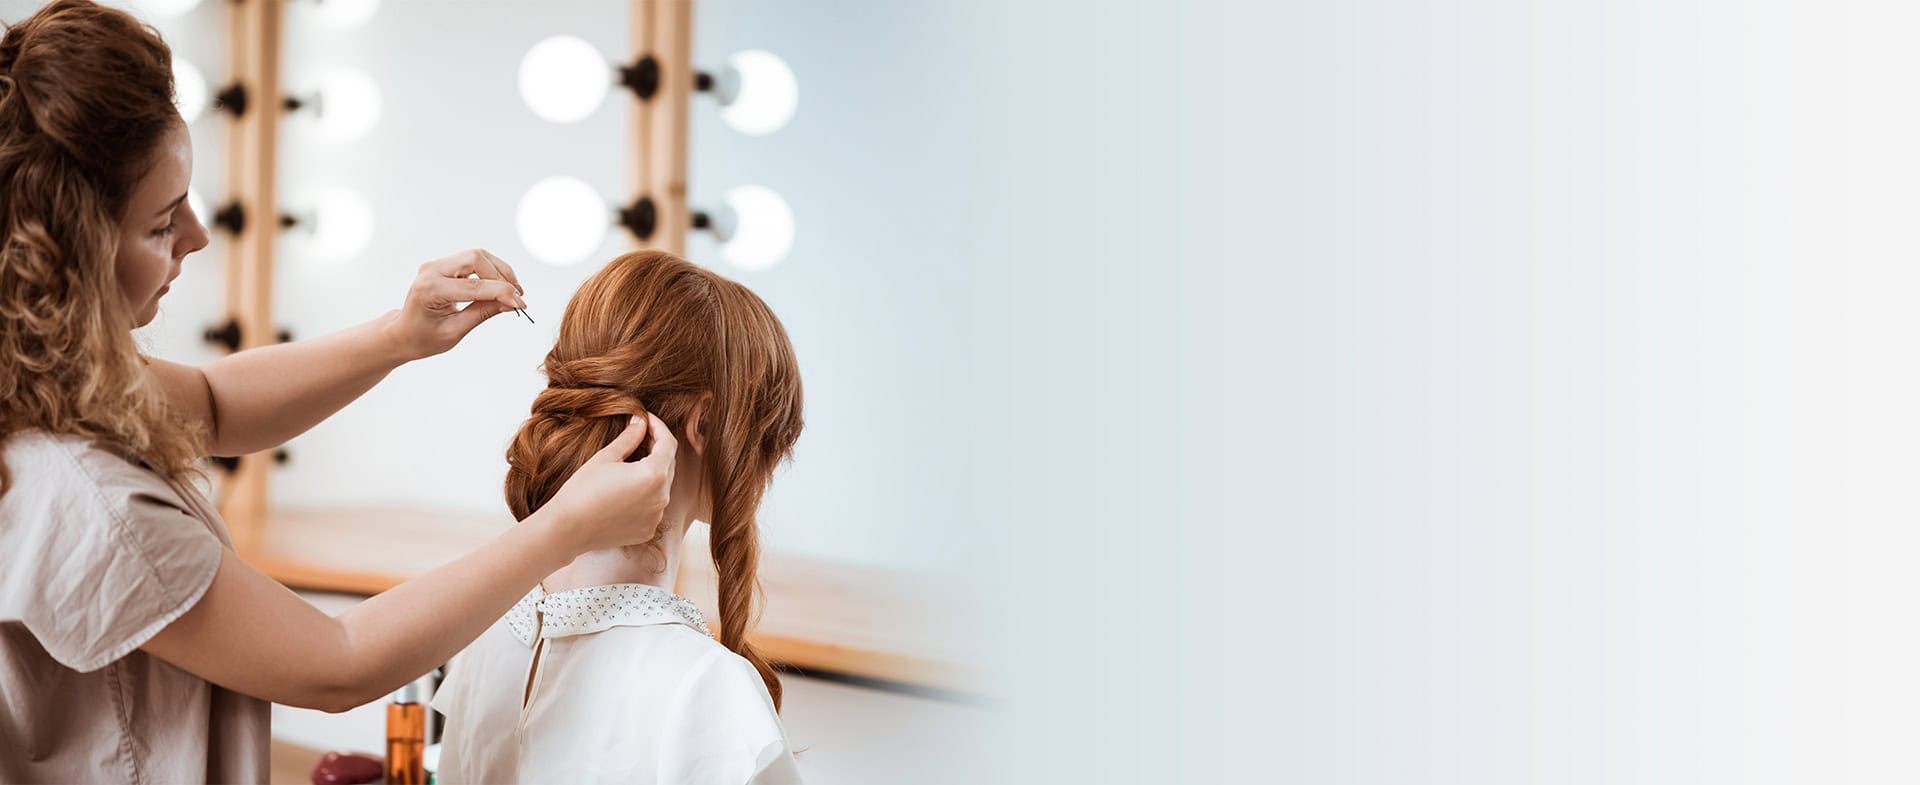
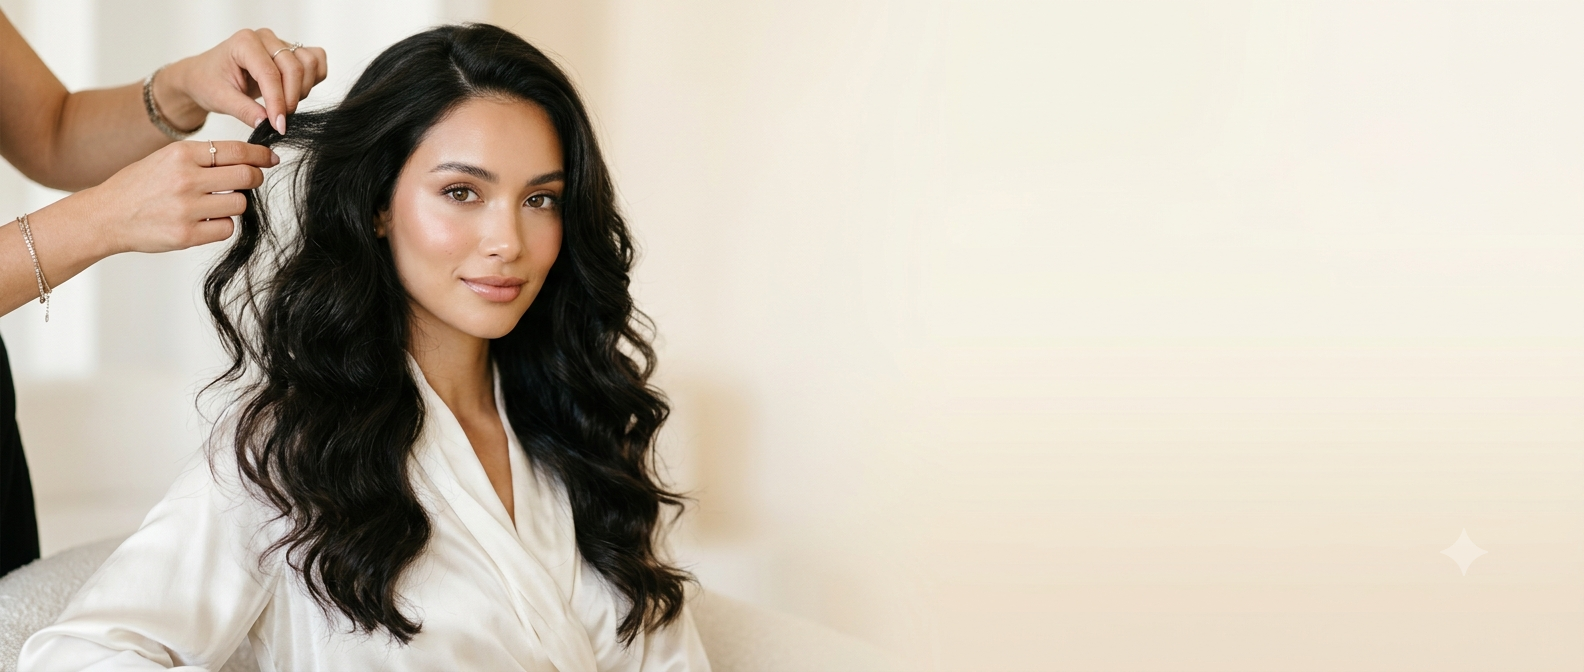
feat: replace all category images with real clinic photos and update hero headline
- Added local images for all 9 categories across Home, CategorySelectionPage, and ServiceCategoryPage
- Removed leftover Unsplash placeholder slides from carousel
- Updated hero headline to 'הפכי לגרסה שחלמת עליה'
- Updated AI slide badge text to 'שאלי את ה־AI'
- Removed gradient overlays blocking hero images

diff --git a/src/pages/Home.jsx b/src/pages/Home.jsx
@@ -2,18 +2,27 @@ import React, { useState, useEffect } from 'react';
 import { useNavigate } from 'react-router-dom';
 import { motion, AnimatePresence } from 'framer-motion';
 import { Sparkles, ArrowLeft, Star } from 'lucide-react';
+import makeupSlide from '../assets/makeup-professional.png';
+import manicureSlide from '../assets/slide1.jpg';
+import hairSlide from '../assets/slide2.jpg';
+import cosmoSlide from '../assets/Como.jpg';
+import eyebrowsSlide from '../assets/eyebrows.png';
+import hairRemovalSlide from '../assets/hair-removal.png';
+import bodySlide from '../assets/body-treatments.png';
+import aestheticSlide from '../assets/aesth.png';
+import personalStylingSlide from '../assets/personal_styling.png';
 
 /* ─── Treatment categories shown in the home grid ──────────────── */
 const CATEGORIES = [
-  { slug: 'manicure-pedicure',      name: 'מניקור ופדיקור',         type: 'image', img: 'photo-1596755389378-c31d21fd1273' },
-  { slug: 'hair-design',            name: 'עיצוב שיער',             type: 'solid', bg: '#4A9BA8',  text: '#fff' },
-  { slug: 'cosmetology',            name: 'טיפולי קוסמטיקה',        type: 'image', img: 'photo-1570172619644-dfd03ed5d881' },
-  { slug: 'body-treatments',        name: 'טיפולי גוף',             type: 'solid', bg: '#F5DDD0',  text: '#3D2B1F' },
-  { slug: 'hair-removal',           name: 'הסרת שיעור',             type: 'image', img: 'photo-1552693673-1bf958298935' },
-  { slug: 'professional-makeup',    name: 'איפור מקצועי',           type: 'solid', bg: '#E8825A',  text: '#fff' },
-  { slug: 'permanent-makeup-brows', name: 'איפור קבוע ועיצוב גבות', type: 'image', img: 'photo-1616394584738-fc6e612e71b9' },
-  { slug: 'personal-styling',       name: 'סטיילינג אישי',          type: 'solid', bg: '#EDB89A',  text: '#3D2B1F' },
-  { slug: 'aesthetic-treatments',   name: 'טיפולי אסתטיקה',         type: 'image', img: 'photo-1487412720507-e7ab37603c6f' },
+  { slug: 'manicure-pedicure',      name: 'מניקור ופדיקור',         type: 'image', img: manicureSlide },
+  { slug: 'hair-design',            name: 'עיצוב שיער',             type: 'image', img: hairSlide  },
+  { slug: 'cosmetology',            name: 'טיפולי קוסמטיקה',        type: 'image', img: cosmoSlide },
+  { slug: 'body-treatments',        name: 'טיפולי גוף',             type: 'image', img: bodySlide },
+  { slug: 'hair-removal',           name: 'הסרת שיעור',             type: 'image', img: hairRemovalSlide },
+  { slug: 'professional-makeup',    name: 'איפור מקצועי',           type: 'image', img: makeupSlide },
+  { slug: 'permanent-makeup-brows', name: 'איפור קבוע ועיצוב גבות', type: 'image', img: eyebrowsSlide },
+  { slug: 'personal-styling',       name: 'סטיילינג אישי',          type: 'image', img: personalStylingSlide },
+  { slug: 'aesthetic-treatments',   name: 'טיפולי אסתטיקה',         type: 'image', img: aestheticSlide },
 ];
 
 /* ─── Scan Box ─────────────────────────────────────────────────── */
@@ -298,9 +307,15 @@ export default function Home() {
   /* carousel */
   const slides = [
     { src: 'https://images.unsplash.com/photo-1531746020798-e6953c6e8e04?auto=format&fit=crop&w=900&q=90', alt: 'ניתוח עור AI',       type: 'scan' },
-    { src: 'https://images.unsplash.com/photo-1570172619644-dfd03ed5d881?auto=format&fit=crop&w=900&q=90', alt: 'טיפול פנים',         type: 'label', badge: 'טיפול פנים מקצועי' },
-    { src: 'https://images.unsplash.com/photo-1616394584738-fc6e612e71b9?auto=format&fit=crop&w=900&q=90', alt: 'עיצוב גבות',         type: 'label', badge: 'עיצוב גבות ועיניים' },
-    { src: 'https://images.unsplash.com/photo-1544161515-4ab6ce6db874?auto=format&fit=crop&w=900&q=90',   alt: 'חוויית ספא',         type: 'label', badge: 'חוויית ספא מפנקת'   },
+    { src: makeupSlide,                                                                                      alt: 'איפור מקצועי',       type: 'label', badge: 'איפור מקצועי'      },
+    { src: manicureSlide,                                                                                    alt: 'מניקור ופדיקור',     type: 'label', badge: 'מניקור ופדיקור'    },
+    { src: hairSlide,                                                                                        alt: 'עיצוב שיער',         type: 'label', badge: 'עיצוב שיער'        },
+    { src: cosmoSlide,                                                                                       alt: 'טיפולי קוסמטיקה',    type: 'label', badge: 'טיפולי קוסמטיקה'   },
+    { src: eyebrowsSlide,                                                                                    alt: 'איפור קבוע ועיצוב גבות', type: 'label', badge: 'איפור קבוע ועיצוב גבות' },
+    { src: bodySlide,                                                                                        alt: 'טיפולי גוף',         type: 'label', badge: 'טיפולי גוף'        },
+    { src: hairRemovalSlide,                                                                                 alt: 'הסרת שיעור',         type: 'label', badge: 'הסרת שיעור'        },
+    { src: aestheticSlide,                                                                                   alt: 'טיפולי אסתטיקה',     type: 'label', badge: 'טיפולי אסתטיקה'    },
+    { src: personalStylingSlide,                                                                             alt: 'סטיילינג אישי',       type: 'label', badge: 'סטיילינג אישי'      },
   ];
   const [currentSlide, setCurrentSlide] = useState(0);
   useEffect(() => {
@@ -327,7 +342,7 @@ export default function Home() {
             key={currentSlide}
             src={slides[currentSlide].src}
             alt={slides[currentSlide].alt}
-            className="absolute inset-0 w-full h-full object-cover object-top"
+            className="absolute inset-0 w-full h-full object-cover object-center"
             initial={{ opacity: 0, scale: 1.04 }}
             animate={{ opacity: 1, scale: 1 }}
             exit={{ opacity: 0 }}
@@ -335,21 +350,7 @@ export default function Home() {
           />
         </AnimatePresence>
 
-        {/* ── Gradient: let the image breathe — fade starts later, never goes fully opaque ── */}
-        <div
-          className="absolute inset-0 pointer-events-none"
-          style={{
-            background: 'linear-gradient(to right, transparent 0%, rgba(250,247,242,0.15) 38%, rgba(250,247,242,0.60) 58%, rgba(250,247,242,0.82) 100%)',
-          }}
-        />
-        {/* text-area backdrop: only in the rightmost 45% — gives just enough contrast for dark text */}
-        <div
-          className="absolute inset-y-0 right-0 pointer-events-none"
-          style={{
-            width: '45%',
-            background: 'linear-gradient(to right, transparent 0%, rgba(250,247,242,0.22) 100%)',
-          }}
-        />
+        {/* ── Gradient: subtle bottom fade only ── */}
         {/* bottom fade */}
         <div className="absolute inset-0 bg-gradient-to-t from-[#FAF7F2]/40 via-transparent to-transparent pointer-events-none" />
 
@@ -408,7 +409,7 @@ export default function Home() {
                       textShadow: '0 2px 20px rgba(250,247,242,0.70)',
                     }}
                   >
-                    העור שלך
+                    הפכי לגרסה
                   </motion.h1>
                   <motion.h1
                     variants={word}
@@ -422,7 +423,7 @@ export default function Home() {
                       filter: 'drop-shadow(0 2px 12px rgba(250,247,242,0.60))',
                     }}
                   >
-                    בידיים מקצועיות
+                    שחלמת עליה
                   </motion.h1>
                 </motion.div>
 
@@ -494,9 +495,9 @@ export default function Home() {
                     animate={{ opacity: [1, 0.3, 1] }}
                     transition={{ repeat: Infinity, duration: 1.4 }}
                   />
-                  <span className="text-xs font-bold text-gray-700" dir="rtl">AI סורק</span>
+                  <span className="text-xs font-bold text-gray-700" dir="rtl">שאלי את ה־AI</span>
                   <span className="text-gray-300 text-xs">|</span>
-                  <span className="text-xs text-gray-400" dir="rtl">4 אזורים זוהו</span>
+                  <span className="text-xs text-gray-400" dir="rtl">ייעוץ אישי חינם</span>
                 </>
               ) : (
                 <>
@@ -686,7 +687,7 @@ export default function Home() {
               {cat.type === 'image' ? (
                 <>
                   <img
-                    src={`https://images.unsplash.com/${cat.img}?auto=format&fit=crop&w=450&q=80`}
+                    src={cat.img?.startsWith('photo-') ? `https://images.unsplash.com/${cat.img}?auto=format&fit=crop&w=450&q=80` : cat.img}
                     alt={cat.name}
                     className="absolute inset-0 w-full h-full object-cover transition-transform duration-700 group-hover:scale-110"
                   />

diff --git a/src/pages/CategorySelectionPage.jsx b/src/pages/CategorySelectionPage.jsx
@@ -2,18 +2,27 @@ import React from "react";
 import { useNavigate } from "react-router-dom";
 import { motion } from "framer-motion";
 import { serviceCatalog } from "../data/serviceCatalog";
+import makeupSlide from "../assets/makeup-professional.png";
+import manicureSlide from "../assets/slide1.jpg";
+import hairSlide from "../assets/slide2.jpg";
+import cosmoSlide from "../assets/Como.jpg";
+import eyebrowsSlide from "../assets/eyebrows.png";
+import hairRemovalSlide from "../assets/hair-removal.png";
+import aestheticSlide from "../assets/aesth.png";
+import personalStylingSlide from "../assets/personal_styling.png";
+import bodySlide from "../assets/body-treatments.png";
 
 /* ── Unsplash photo per category ───────────────────────────────── */
 const CATEGORY_PHOTOS = {
-  "manicure-pedicure":      "photo-1596755389378-c31d21fd1273",
-  "hair-design":            "photo-1560869713-7d0a29430803",
-  "body-treatments":        "photo-1544161515-4ab6ce6db874",
-  "cosmetology":            "photo-1570172619644-dfd03ed5d881",
-  "hair-removal":           "photo-1552693673-1bf958298935",
-  "professional-makeup":    "photo-1522337360788-8b13dee7a37e",
-  "permanent-makeup-brows": "photo-1616394584738-fc6e612e71b9",
-  "personal-styling":       "photo-1490481651871-ab68de25d43d",
-  "aesthetic-treatments":   "photo-1487412720507-e7ab37603c6f",
+  "manicure-pedicure":      manicureSlide,
+  "hair-design":            hairSlide,
+  "body-treatments":        bodySlide,
+  "cosmetology":            cosmoSlide,
+  "hair-removal":           hairRemovalSlide,
+  "professional-makeup":    makeupSlide,
+  "permanent-makeup-brows": eyebrowsSlide,
+  "personal-styling":       personalStylingSlide,
+  "aesthetic-treatments":   aestheticSlide,
 };
 
 /* scrolling ticker items */
@@ -70,9 +79,9 @@ function CategoryCard({ category, index }) {
         {/* ── full-width image zone ── */}
         <div className="relative h-44 overflow-hidden bg-[#F5EFE8]">
           <img
-            src={`https://images.unsplash.com/${photo}?auto=format&fit=crop&w=600&q=80`}
+            src={photo?.startsWith('photo-') ? `https://images.unsplash.com/${photo}?auto=format&fit=crop&w=600&q=80` : photo}
             alt={category.name}
-            className="w-full h-full object-cover transition-transform duration-700 group-hover:scale-105"
+            className="w-full h-full object-cover object-center transition-transform duration-700 group-hover:scale-105"
             onError={e => { e.currentTarget.style.display = "none"; }}
           />
           {/* brand colour tint over the photo */}

diff --git a/src/pages/ServiceCategoryPage.jsx b/src/pages/ServiceCategoryPage.jsx
@@ -1,4 +1,13 @@
 import { useRef, useState } from "react";
+import manicureSlide from "../assets/slide1.jpg";
+import hairSlide from "../assets/slide2.jpg";
+import cosmoSlide from "../assets/Como.jpg";
+import bodySlide from "../assets/body-treatments.png";
+import hairRemovalSlide from "../assets/hair-removal.png";
+import makeupSlide from "../assets/makeup-professional.png";
+import eyebrowsSlide from "../assets/eyebrows.png";
+import personalStylingSlide from "../assets/personal_styling.png";
+import aestheticSlide from "../assets/aesth.png";
 import { Link, Navigate, useParams } from "react-router-dom";
 import {
   ArrowRight, ChevronLeft, Sparkles, Scissors, Heart, Star,
@@ -9,15 +18,15 @@ import { getCategoryBySlug, getCategoryTreatments } from "../data/serviceCatalog
 
 /* ── per-category hero photos ────────────────────────────────── */
 const CATEGORY_PHOTOS = {
-  "manicure-pedicure":      "photo-1596755389378-c31d21fd1273",
-  "hair-design":            "photo-1560869713-7d0a29430803",
-  "body-treatments":        "photo-1544161515-4ab6ce6db874",
-  "cosmetology":            "photo-1570172619644-dfd03ed5d881",
-  "hair-removal":           "photo-1552693673-1bf958298935",
-  "professional-makeup":    "photo-1522337360788-8b13dee7a37e",
-  "permanent-makeup-brows": "photo-1616394584738-fc6e612e71b9",
-  "personal-styling":       "photo-1490481651871-ab68de25d43d",
-  "aesthetic-treatments":   "photo-1487412720507-e7ab37603c6f",
+  "manicure-pedicure":      manicureSlide,
+  "hair-design":            hairSlide,
+  "body-treatments":        bodySlide,
+  "cosmetology":            cosmoSlide,
+  "hair-removal":           hairRemovalSlide,
+  "professional-makeup":    makeupSlide,
+  "permanent-makeup-brows": eyebrowsSlide,
+  "personal-styling":       personalStylingSlide,
+  "aesthetic-treatments":   aestheticSlide,
 };
 
 const CATEGORY_EN = {
@@ -406,7 +415,7 @@ export default function ServiceCategoryPage() {
 
         {/* full-bleed category photo */}
         <img
-          src={`https://images.unsplash.com/${CATEGORY_PHOTOS[categorySlug] || "photo-1570172619644-dfd03ed5d881"}?auto=format&fit=crop&w=1400&q=85`}
+          src={(() => { const p = CATEGORY_PHOTOS[categorySlug] || "photo-1570172619644-dfd03ed5d881"; return p.startsWith?.("photo-") ? `https://images.unsplash.com/${p}?auto=format&fit=crop&w=1400&q=85` : p; })()}
           alt={category.name}
           className="absolute inset-0 w-full h-full object-cover object-center"
         />
